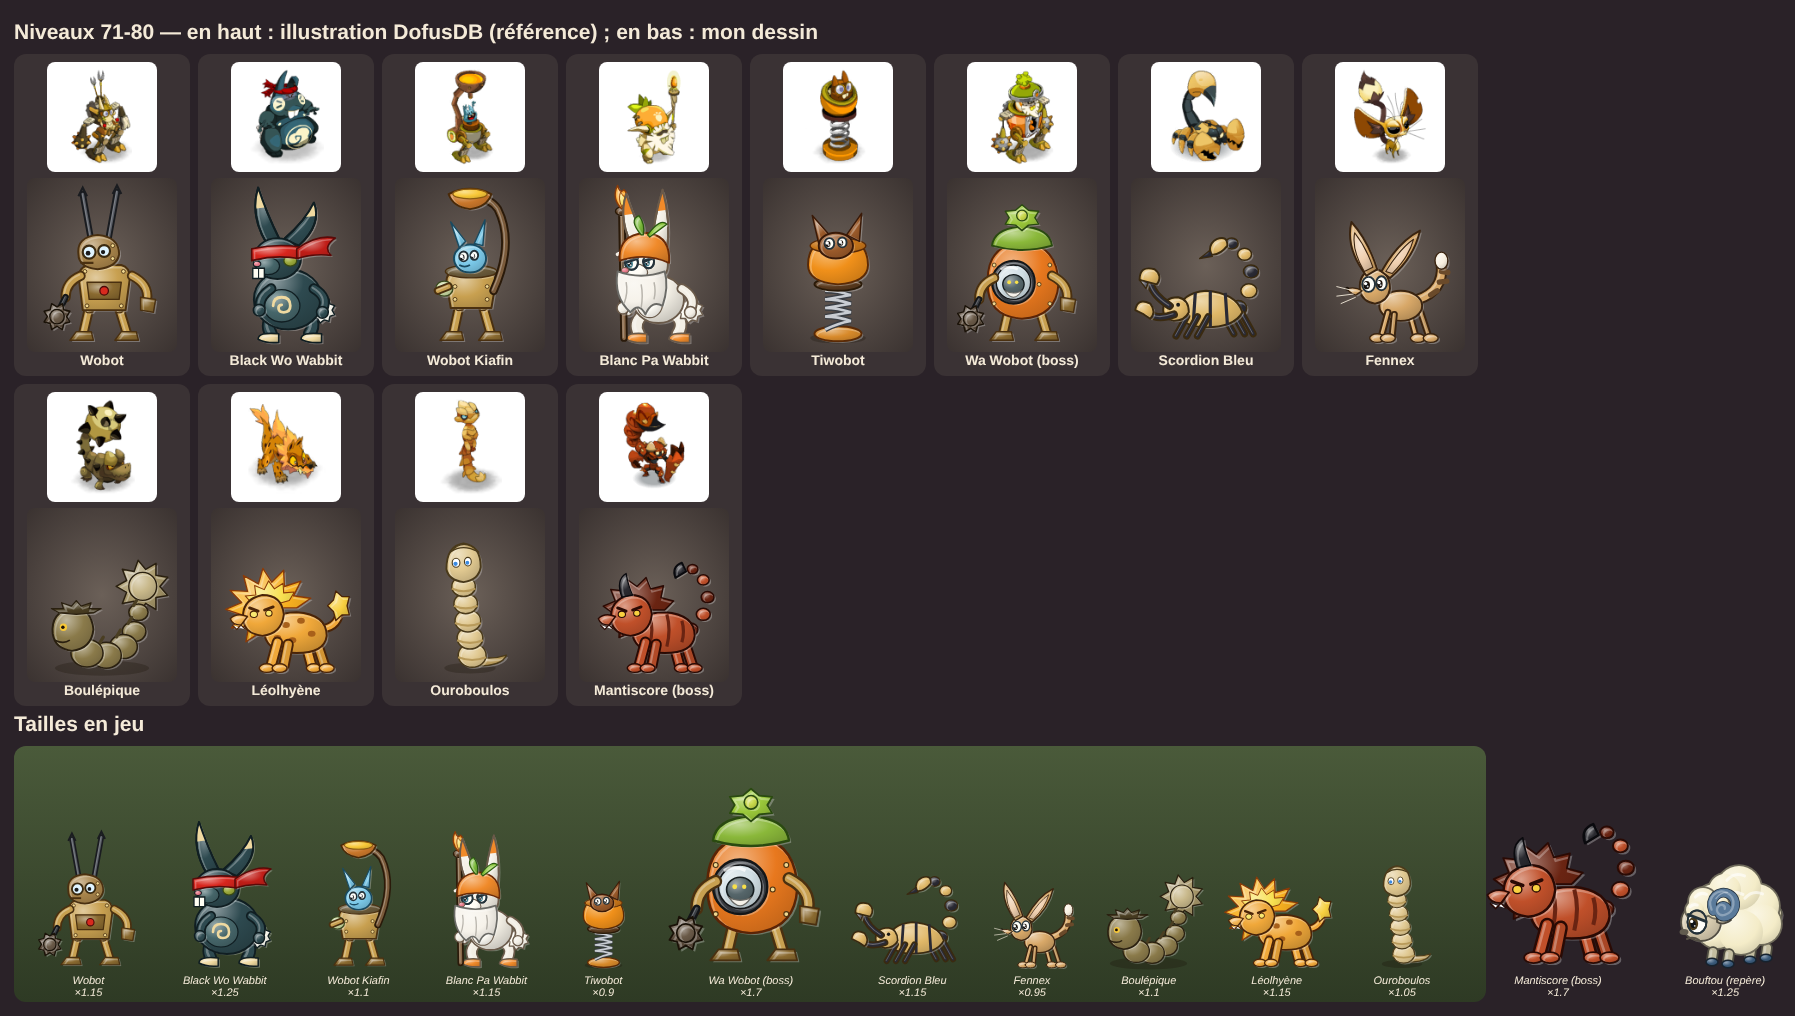
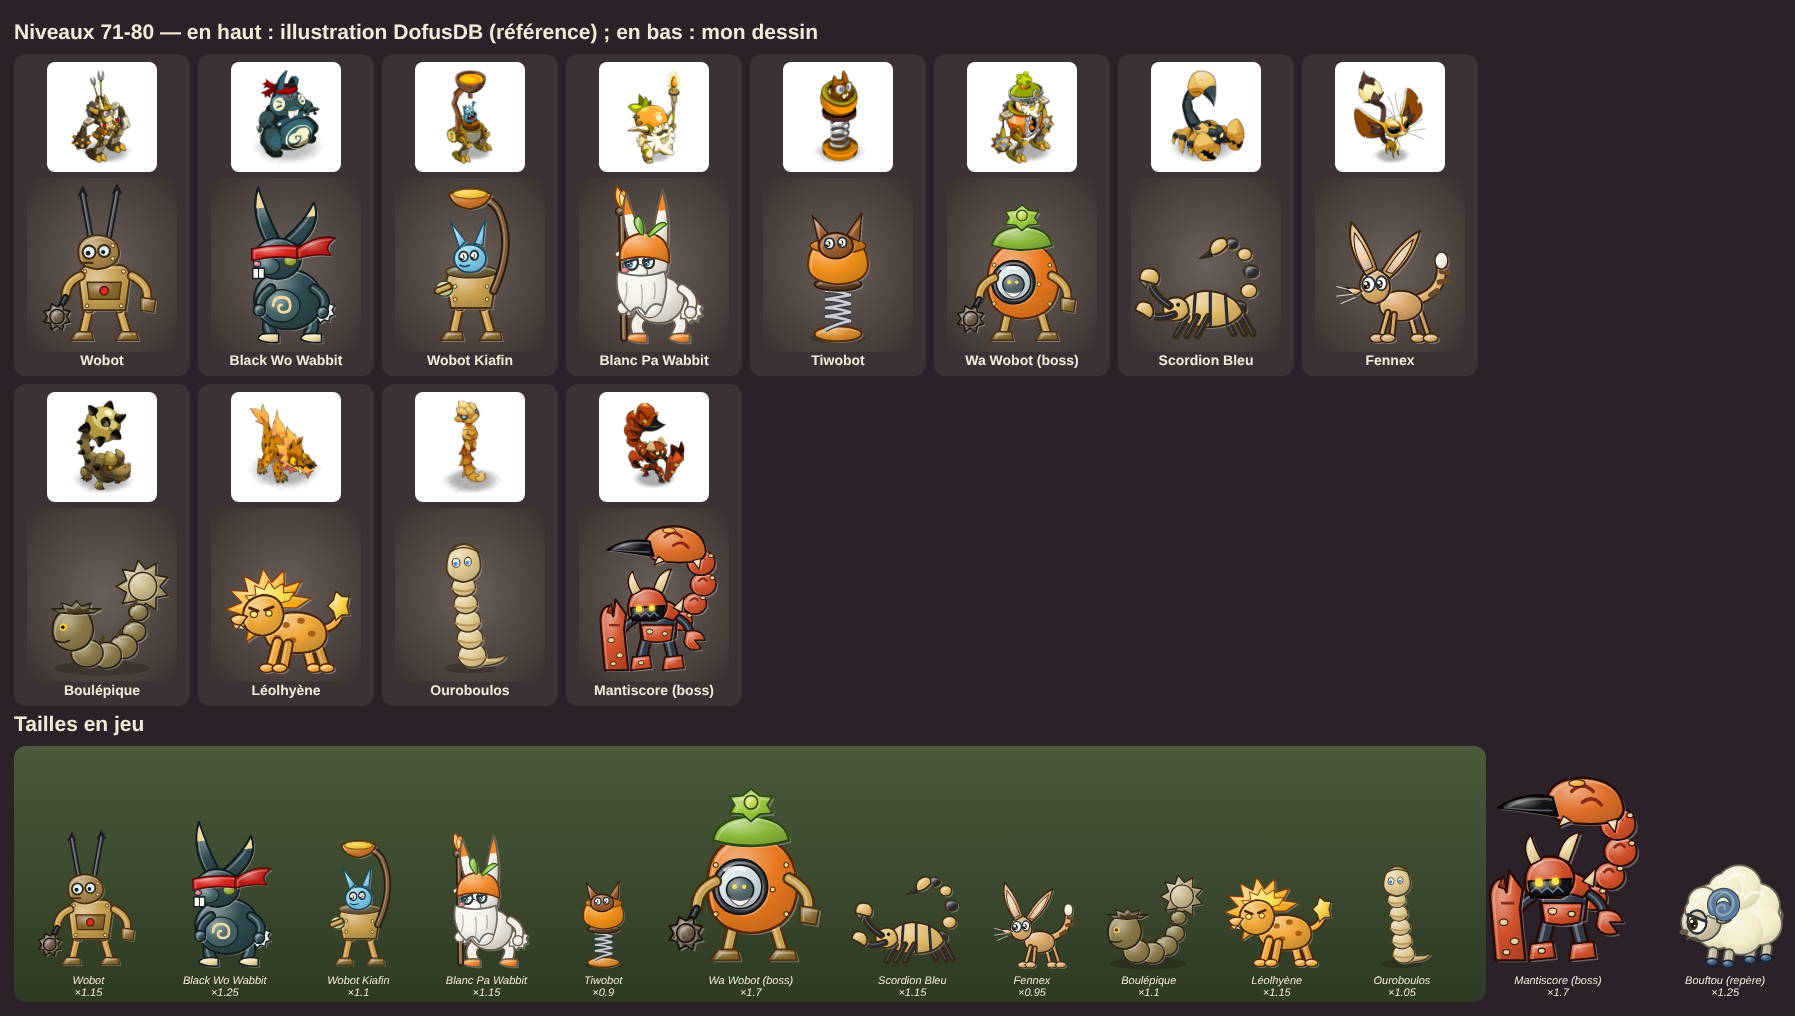
Références : guides de donjons (captures, grandes illustrations, sorts) ; Mantiscore redessiné d'après sa grande illustration
Claude-Session: https://claude.ai/code/session_01Prs31Rz3QTaqHT3hgqrSve

Changed region(s): [[0.8111, 0.7628, 0.9359, 0.9459], [0.312, 0.5187, 0.4056, 0.6713]]

diff --git a/src/art/champs-chibi.ts b/src/art/champs-chibi.ts
@@ -70,7 +70,7 @@ export const WOBOTS: CritterKind[] = ['wobot', 'waWobot', 'wobotKiafin', 'tiwobo
 /** Saharach : quadrupèdes (corps de mouton) ; Boulépique et Ouroboulos, vers (rig des gelées). */
 export const DESERTS: CritterKind[] = ['scordionBleu', 'fennex', 'boulepique', 'leolhyene', 'ouroboulos', 'mantiscore'];
 export const partsOf = (k: CritterKind): readonly CritterPart[] =>
-  (k === 'tofu' || k === 'tofuMalade' || PICHONS.includes(k) || TOFUS.includes(k) || KWAKS.includes(k) ? TOFU_PARTS : SHEEP.includes(k) || PIOUS.includes(k) || BEASTS.includes(k) || SCARAS.includes(k) || k === 'rib' || ['scordionBleu', 'fennex', 'leolhyene', 'mantiscore'].includes(k) ? SHEEP_PARTS : CATS.includes(k) ? CAT_PARTS
+  (k === 'tofu' || k === 'tofuMalade' || PICHONS.includes(k) || TOFUS.includes(k) || KWAKS.includes(k) ? TOFU_PARTS : SHEEP.includes(k) || PIOUS.includes(k) || BEASTS.includes(k) || SCARAS.includes(k) || k === 'rib' || ['scordionBleu', 'fennex', 'leolhyene'].includes(k) ? SHEEP_PARTS : CATS.includes(k) ? CAT_PARTS
     : JELLIES.includes(k) || FLAMES.includes(k) || GHOSTS.includes(k) || BLOPS.includes(k) || k === 'kwoan' || k === 'elementerre' || k === 'tonneauPirate' || k === 'tiwobot' || k === 'boulepique' || k === 'ouroboulos' ? JELLY_PARTS : k === 'aminite' || SPIDERS.includes(k) || DOAS.includes(k) ? SHROOM_PARTS : PLANT_PARTS);
 const BIRD_PIVOTS: Partial<Record<CritterPart, [number, number]>> = { tail: [94, 112], legB: [78, 134], body: [70, 140], legF: [62, 134], head: [58, 104], horn: [58, 80] };
 const SPIDER_PIVOTS: Partial<Record<CritterPart, [number, number]>> = { legB: [86, 116], legF: [56, 118], body: [70, 140], head: [70, 100] };
@@ -124,7 +124,8 @@ export const CRITTER_PIVOTS = {
   tiwobot: { back: [70, 146], body: [70, 146], face: [70, 100] },
   scordionBleu: { tail: [100, 120], legB: [96, 128], body: [74, 136], legF: [62, 130], head: [50, 120], horn: [40, 120] },
   fennex: { tail: [96, 112], legB: [92, 124], body: [80, 132], legF: [70, 126], head: [60, 108], horn: [56, 88] },
-  leolhyene: SHEEP_PIVOTS, mantiscore: SHEEP_PIVOTS,
+  leolhyene: SHEEP_PIVOTS,
+  mantiscore: { legB: [84, 124], legF: [62, 124], stem: [72, 146], leafB: [96, 102], leafF: [56, 100], head: [66, 96] },
   boulepique: JELLY_PIVOTS, ouroboulos: { back: [70, 146], body: [70, 146], face: [66, 68] },
   boomba: { legB: [80, 116], legF: [62, 116], stem: [72, 140], leafB: [84, 86], leafF: [60, 88], head: [66, 78] },
   nakunbra: { legB: [80, 116], legF: [62, 116], stem: [72, 140], leafB: [84, 86], leafF: [60, 88], head: [66, 78] },
@@ -2059,6 +2060,32 @@ function desertSvg(kind: CritterKind, part?: CritterPart): string {
   const C = DESERT[kind], ink = C.ink;
   const seg = (x: number, y: number, r: number, col = C.body) => blob(ellipse(x, y, r, r * 0.86), col, { ink, w: 1.4 });
   const paw = (x: number, y: number) => blob(ellipse(x, y, 7, 4), C.body, { ink, w: 1.3 });
+  if (kind === 'mantiscore') {
+    // d'après la grande illustration du guide du donjon : petit guerrier en armure rouge (dessous bleu nuit), casque à deux cornes beiges,
+    // yeux jaunes ; une immense pince en bouclier devant lui ; queue de scorpion en anneaux qui passe au-dessus de lui et finit en tête à bec noir
+    const R = '#d0502a', RD = '#8a2a14', NAVY = '#2e3a4a', BEIGE = '#e8cf9a', ik = '#2a0a04';
+    const spot = (x: number, y: number, r = 2.4) => `<ellipse cx="${x}" cy="${y}" rx="${r * 1.3}" ry="${r}" fill="${BEIGE}" stroke="${ik}" stroke-width="0.8"/>`;
+    push(P, 'legB', tube('M84,124 L88,140', 8, NAVY, ik), blob('M80,138 L96,136 L98,148 L78,150 Z', R, { ink: ik, w: 1.4 }));
+    push(P, 'legF', tube('M62,124 L58,140', 8, NAVY, ik), blob('M50,138 L66,136 L68,148 L48,150 Z', R, { ink: ik, w: 1.4 }), spot(58, 143, 2));
+    push(P, 'stem', ...[[96, 104, 10], [108, 88, 11], [116, 70, 12], [114, 50, 13]].map(([x, y, r]) => blob(ellipse(x, y, r, r * 0.9), R, { ink: ik, w: 1.4 }) +
+      `<path d="M${x - r * 0.4},${y - r * 0.2} q${r * 0.4},${-r * 0.5} ${r * 0.7},0" fill="none" stroke="${RD}" stroke-width="2"/>` + spot(x + r * 0.7, y - r * 0.5, 1.8)),
+      blob('M118,36 Q114,18 90,16 Q66,16 62,30 Q60,42 72,48 Q96,52 112,48 Q120,44 118,36 Z', '#e0702a', { ink: ik }),
+      blob('M66,30 Q44,26 26,38 Q46,40 70,44 Z', '#141418', { ink: '#000', w: 1.4 }), `<path d="M30,38 Q48,40 66,40" stroke="#5a5a66" stroke-width="1.2" fill="none"/>`,
+      `<path d="M80,26 q8,-8 16,0 M88,34 q8,-6 14,2" fill="none" stroke="${RD}" stroke-width="2.6" stroke-linecap="round"/>`, blob(ellipse(84, 20, 6, 2.6), '#f8b040', { ink: ik, w: 0.8, rim: false }),
+      blob('M74,44 L70,52 L80,48 Z', BEIGE, { ink: ik, w: 1 }), blob('M106,48 L112,56 L114,46 Z', BEIGE, { ink: ik, w: 1 }),
+      blob('M56,98 Q58,86 72,86 Q90,86 92,100 L90,120 Q74,126 58,120 Z', NAVY, { ink: ik }),
+      blob('M54,96 Q60,84 74,84 Q92,86 94,98 L88,104 Q74,98 60,104 Z', R, { ink: ik }), blob('M58,108 L88,108 L86,122 Q72,126 60,122 Z', R, { ink: ik, w: 1.4 }),
+      blob('M88,92 L98,82 L96,96 Z', BEIGE, { ink: ik, w: 1.1 }), spot(66, 114), spot(80, 116, 2));
+    push(P, 'leafB', tube('M94,102 Q104,108 104,118', 5, NAVY, ik), blob('M100,114 Q114,110 118,122 L108,122 L114,130 Q102,134 98,124 Z', R, { ink: ik, w: 1.4 }));
+    push(P, 'head', blob('M46,96 Q44,78 60,74 Q78,72 82,88 Q82,100 72,104 L54,104 Q46,102 46,96 Z', R, { ink: ik }),
+      blob('M50,80 Q42,66 50,58 Q54,70 58,76 Z', BEIGE, { ink: ik, w: 1.2 }), blob('M70,74 Q74,58 86,56 Q82,68 78,78 Z', BEIGE, { ink: ik, w: 1.2 }),
+      blob('M48,92 L80,90 L78,102 L50,104 Z', '#141418', { ink: '#000', w: 1.2, rim: false }), `<path d="M50,100 l4,-4 l4,4 l4,-4 l4,4 l4,-4 l4,4" fill="none" stroke="#6a7a8a" stroke-width="1.2"/>`,
+      `<circle cx="56" cy="93" r="3" fill="#ffe24a"/><circle cx="68" cy="92" r="2.8" fill="#ffe24a"/><circle cx="56" cy="93" r="5" fill="#ffe24a" opacity="0.3"/><circle cx="68" cy="92" r="4.6" fill="#ffe24a" opacity="0.3"/>`);
+    push(P, 'leafF', tube('M58,100 Q44,106 40,114', 5, NAVY, ik),
+      blob('M24,150 L20,104 Q20,92 28,90 L32,100 L34,84 L44,98 L42,112 L46,150 Z', R, { ink: ik }), blob('M26,96 L30,88 L32,98 Z', RD, { ink: ik, w: 1, rim: false }),
+      `<path d="M28,108 L38,108" stroke="${RD}" stroke-width="2"/>`, spot(30, 122), spot(38, 136), spot(32, 144, 2));
+    return assemble(kind, P, part);
+  }
   if (kind === 'boulepique') {
     // ver brun à segments, boule d'épines au bout de la queue (derrière, à droite)
     push(P, 'back', `<ellipse cx="70" cy="148" rx="44" ry="7" fill="#1a1208" opacity="0.28"/>`, blob(spiky(108, 72, 16, 16, 9, 0.55), '#a8986a', { ink, w: 1.4 }), blob(circle(108, 72, 13), '#c8b88a', { ink, w: 1.3 }));
@@ -2086,16 +2113,14 @@ function desertSvg(kind: CritterKind, part?: CritterPart): string {
       tube('M40,126 Q24,132 16,124', 4, C.dark, ink), blob('M4,122 Q6,110 18,116 Q24,124 18,130 L12,126 Z', C.body, { ink }));
     return assemble(kind, P, part);
   }
-  // Fennex, Léolhyène, Mantiscore : quadrupèdes
-  const fen = kind === 'fennex', leo = kind === 'leolhyene', man = kind === 'mantiscore';
+  // Fennex, Léolhyène : quadrupèdes
+  const fen = kind === 'fennex', leo = kind === 'leolhyene';
   if (fen) push(P, 'tail', tube('M96,112 Q120,104 118,80', 7, C.body, ink), `<path d="M108,108 l6,-4 M116,96 l7,-1 M118,86 l6,1" stroke="${C.dark}" stroke-width="5" stroke-linecap="round"/>`, blob(ellipse(118, 76, 6, 8), '#f8f0e0', { ink, w: 1.3 }));
   if (leo) push(P, 'tail', tube('M98,112 Q118,112 120,96', 5, C.body, ink), blob(spiky(120, 90, 7, 9, 5, 0.6), '#f8d040', { ink, w: 1.2 }));
-  if (man) push(P, 'tail', ...[[104, 112, 7], [116, 98, 6.5], [120, 82, 6], [116, 66, 5.5], [106, 56, 5]].map(([x, y, r], i) => seg(x, y, r, i % 2 ? C.body : C.dark)), blob('M96,50 Q86,54 90,64 L100,58 Z', '#2a2a30', { ink: '#0a0a0e' }));
   const legC = fen ? 3 : 7;
   push(P, 'legB', tube('M88,124 L94,146', legC, C.body, ink), paw(96, 148), tube('M98,122 L106,146', legC, shade(C.body, -0.12), ink), paw(108, 148));
   push(P, 'body', blob(fen ? ellipse(80, 118, 20, 14) : 'M50,118 Q52,96 80,96 Q108,98 108,118 Q106,134 80,134 Q54,134 50,118 Z', C.body, { ink, hl: [0.3, 0.2] }));
   if (leo) push(P, 'body', ...[[70, 108], [84, 104], [94, 116], [76, 122], [62, 120]].map(([x, y]) => `<ellipse cx="${x}" cy="${y}" rx="3.6" ry="2.8" fill="${C.dark}"/>`));
-  if (man) push(P, 'body', `<path d="M66,100 q4,12 0,26 M82,98 q4,14 0,30 M96,104 q3,10 0,20" fill="none" stroke="${C.dark}" stroke-width="3"/>`);
   push(P, 'legF', tube(`M${fen ? 68 : 62},124 L${fen ? 62 : 56},146`, legC, C.body, ink), paw(fen ? 58 : 52, 148), tube(`M${fen ? 74 : 72},126 L${fen ? 72 : 68},146`, legC, shade(C.body, -0.08), ink), paw(fen ? 68 : 64, 148));
   if (fen) {
     push(P, 'head', blob('M42,104 Q40,86 56,84 Q70,86 70,102 Q68,114 56,116 Q44,114 42,104 Z', C.body, { ink }), blob('M38,108 Q32,106 30,102 Q38,100 44,104 Z', C.body, { ink, w: 1.2 }),
@@ -2106,11 +2131,9 @@ function desertSvg(kind: CritterKind, part?: CritterPart): string {
     return assemble(kind, P, part);
   }
   push(P, 'head', blob('M30,104 Q28,84 48,80 Q66,80 68,98 Q66,116 48,118 Q32,116 30,104 Z', C.body, { ink }), blob('M28,108 Q20,108 18,102 Q24,96 34,100 Z', shade(C.body, 0.1), { ink, w: 1.3 }),
-    `<path d="M36,92 l8,3 M50,94 l8,-3" stroke="${ink}" stroke-width="2.6" stroke-linecap="round"/><ellipse cx="40" cy="98" rx="3.4" ry="3" fill="${man ? '#f8d040' : '#f8e870'}" stroke="${ink}"/><ellipse cx="54" cy="97" rx="3" ry="2.8" fill="${man ? '#f8d040' : '#f8e870'}" stroke="${ink}"/>`,
+    `<path d="M36,92 l8,3 M50,94 l8,-3" stroke="${ink}" stroke-width="2.6" stroke-linecap="round"/><ellipse cx="40" cy="98" rx="3.4" ry="3" fill="#f8e870" stroke="${ink}"/><ellipse cx="54" cy="97" rx="3" ry="2.8" fill="#f8e870" stroke="${ink}"/>`,
     `<path d="M20,108 l4,4 l4,-4 l4,4" fill="#fff" stroke="${ink}" stroke-width="1.1"/>`);
   if (leo) push(P, 'body', blob(spiky(54, 92, 26, 24, 9, 0.55, Math.PI * 0.6, Math.PI * 2.0), '#f8b020', { ink: '#8a3a08', w: 1.3 }), blob(spiky(56, 90, 18, 16, 7, 0.45, Math.PI * 0.7, Math.PI * 1.9), '#f8e050', { ink: '#8a3a08', w: 1, rim: false }));
-  if (man) push(P, 'body', blob(spiky(56, 94, 24, 22, 8, 0.4, Math.PI * 0.6, Math.PI * 2.0), C.dark, { ink, w: 1.3 }));
-  if (man) push(P, 'horn', blob('M40,82 Q34,66 44,60 Q46,72 50,80 Z', '#2a2a30', { ink: '#0a0a0e', w: 1.2 }));
   return assemble(kind, P, part);
 }
 

diff --git a/tools/refs_guide.py b/tools/refs_guide.py
@@ -1,0 +1,21 @@
+"""Références visuelles d'un donjon (à regarder, jamais copier dans le jeu) : télécharge les images d'une page de guide
+de dofuspourlesnoobs.com (captures en jeu, grandes illustrations des boss, schémas des sorts) dans un dossier à part.
+Usage : python3 -I tools/refs_guide.py <page, ex. cimetiere-des-mastodontes> <dossier vide>
+Le texte de la page (sorts des monstres et des boss, salles) est aussi enregistré : page.txt."""
+import html, os, re, sys, urllib.request
+
+page, out = sys.argv[1], sys.argv[2]
+os.makedirs(out, exist_ok=True)
+base = 'https://www.dofuspourlesnoobs.com'
+raw = urllib.request.urlopen(f'{base}/{page}.html', timeout=30).read().decode('utf-8', 'ignore')
+body = re.sub(r'<script.*?</script>|<style.*?</style>', '', raw, flags=re.S)
+open(os.path.join(out, 'page.txt'), 'w').write(re.sub(r'\s+', ' ', html.unescape(re.sub(r'<[^>]+>', ' ', body))))
+srcs = [s for s in dict.fromkeys(re.findall(r'src="(/uploads/[^"]+)"', raw)) if '/custom_themes/' not in s and not s.endswith('1426805183.png')]
+for s in srcs:
+    name = s.rsplit('/', 1)[-1]
+    try:
+        with urllib.request.urlopen(base + s, timeout=30) as r, open(os.path.join(out, name), 'wb') as f:
+            f.write(r.read())
+    except Exception as e:  # une image manquante n'arrête pas le reste
+        print('échec', name, e)
+print(len(srcs), 'images →', out)

diff --git a/CLAUDE.md b/CLAUDE.md
@@ -9,7 +9,7 @@ Jeu privé (jamais publié publiquement) : roguelite d'action en temps réel, po
 - **Être professionnel** : tester avant de montrer (tests unitaires, parcours dans le navigateur, captures regardées).
 - **Toujours demander avant de publier** quelque chose de nouveau. Déjà autorisé en routine : republier l'artifact https://claude.ai/artifact/HvZapFdxVMQneBQzFV7mtV et pousser sur `claude/test-de-style` puis `main` (déploiement Cloudflare).
 - **Pas d'invention quand Dofus a la vraie chose** : vrais monstres, objets, recettes, runes, armes (DofusDB). Si une valeur n'est pas vérifiable, le dire.
-- **Références visuelles** (à regarder, jamais copier dans le jeu) : rendus des cartes du jeu `https://api.dofusdb.fr/img/maps/1/<mapId>.jpg` (identifiants via `api.dofusdb.fr/map-positions?subAreaId=<sous-zone>`), illustrations des monstres `api.dofusdb.fr/img/monsters/<gfxId>.png`, archives publiques dofusdude (`github.com/dofusdude/dofus3-main/releases/latest/download/<archive>.tar.gz`). Toujours partir de ces références avant de dessiner un décor ou un monstre.
+- **Références visuelles** (à regarder, jamais copier dans le jeu) : rendus des cartes du jeu `https://api.dofusdb.fr/img/maps/1/<mapId>.jpg` (identifiants via `api.dofusdb.fr/map-positions?subAreaId=<sous-zone>`), illustrations des monstres `api.dofusdb.fr/img/monsters/<gfxId>.png`, archives publiques dofusdude (`github.com/dofusdude/dofus3-main/releases/latest/download/<archive>.tar.gz`). Guides de donjons (captures en jeu, grandes illustrations des boss, vrais sorts expliqués) : `python3 -I tools/refs_guide.py <page> <dossier vide>` (pages de dofuspourlesnoobs.com, ex. `cimetiere-des-mastodontes`). Toujours partir de ces références avant de dessiner un décor ou un monstre. Inaccessibles d'ici (ne pas contourner) : encyclopédie dofus.com et wiki fandom (403), dofus-portal (refusé par le proxy) ; les archives dofusdude ne vont pas au-delà de 128 px pour les monstres.
 - Ne pas contourner le blocage sur le téléchargement des ressources graphiques Ankama (CDN cytrus) ; les icônes DofusDB (`api.dofusdb.fr/img/...`) sont utilisées.
 
 ## Où trouver quoi
